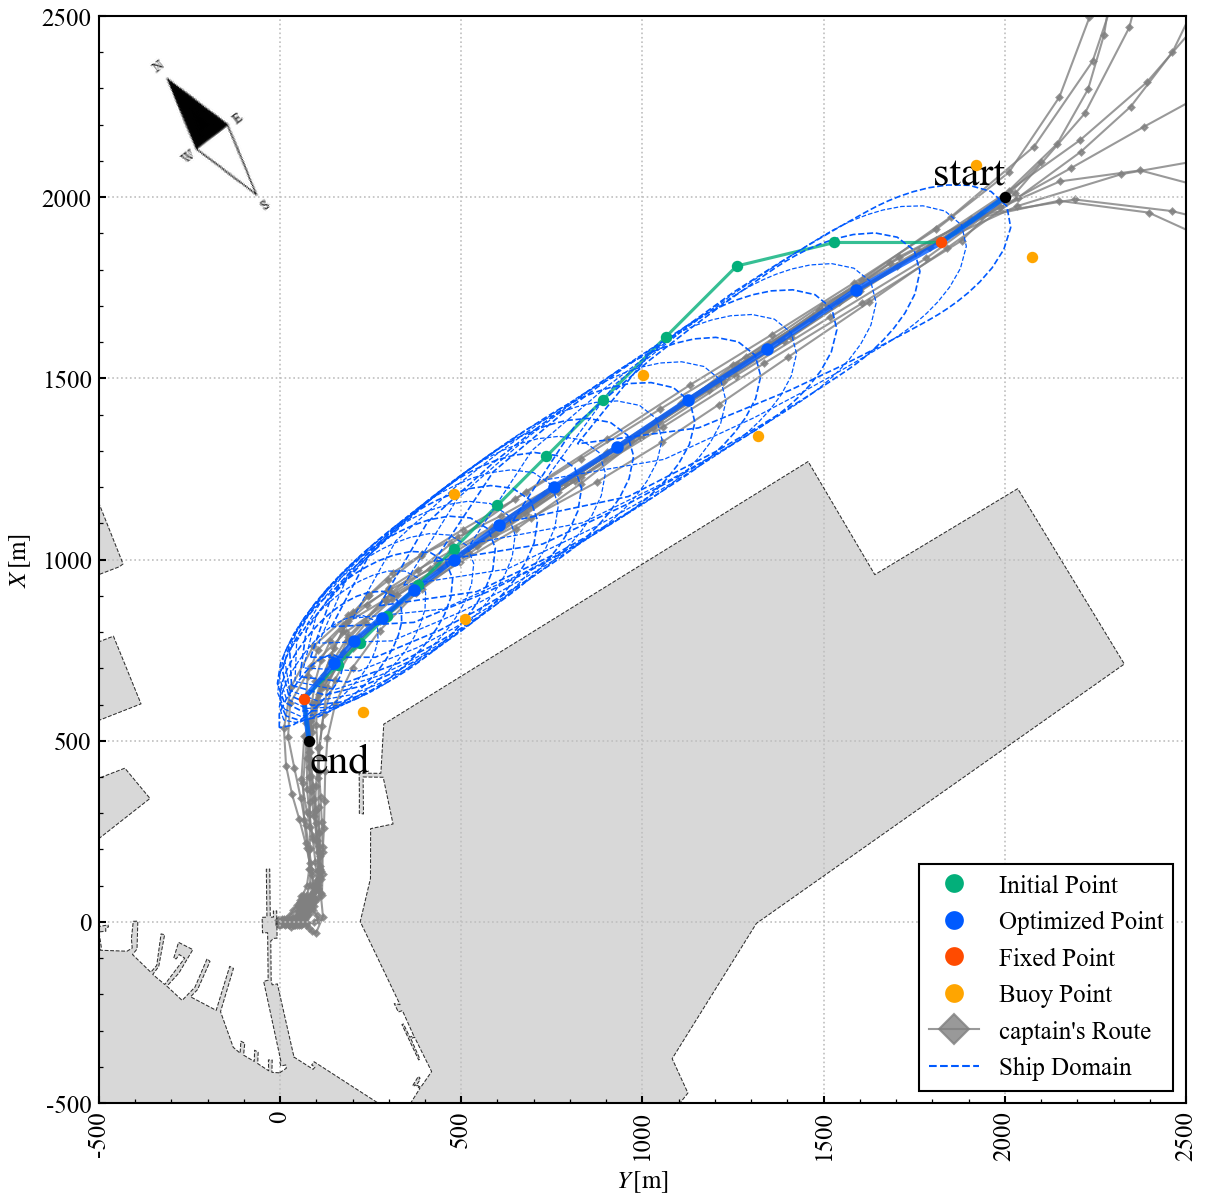
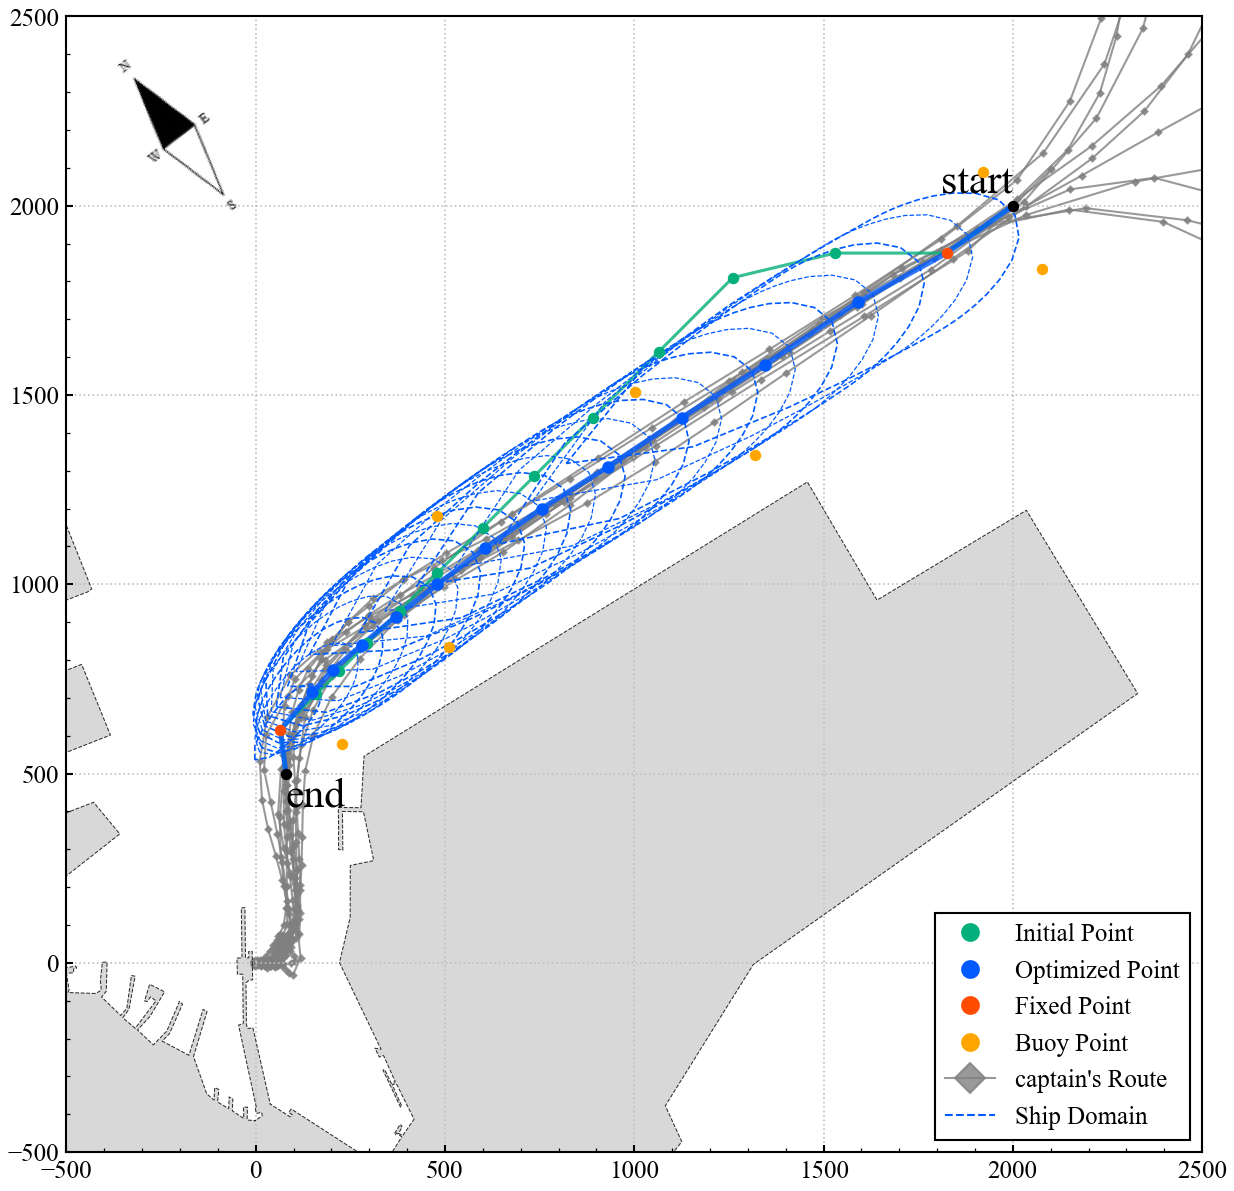
legend無くならへん

diff --git a/program/path_planning/CMA-ES.py b/program/path_planning/CMA-ES.py
@@ -1698,19 +1698,19 @@ class PathPlanning:
         ax1.set_ylim(*ver_lim)
 
         tick_int = 500
-        x_start = int(np.floor(hor_lim[0] / tick_int) * tick_int)
-        x_end = int(np.ceil(hor_lim[1] / tick_int) * tick_int)
-        y_start = int(np.floor(ver_lim[0] / tick_int) * tick_int)
-        y_end = int(np.ceil(ver_lim[1] / tick_int) * tick_int)
-        ax1.set_xticks(np.arange(x_start, x_end + tick_int, tick_int))
-        ax1.set_yticks(np.arange(y_start, y_end + tick_int, tick_int))
-        ax1.set_xticklabels(np.arange(x_start, x_end + tick_int, tick_int).astype(int), rotation=90)
-        ax1.set_yticklabels(np.arange(y_start, y_end + tick_int, tick_int).astype(int))
+        # x_start = int(np.floor(hor_lim[0] / tick_int) * tick_int)
+        # x_end = int(np.ceil(hor_lim[1] / tick_int) * tick_int)
+        # y_start = int(np.floor(ver_lim[0] / tick_int) * tick_int)
+        # y_end = int(np.ceil(ver_lim[1] / tick_int) * tick_int)
+        # # ax1.set_xticks(np.arange(x_start, x_end + tick_int, tick_int))
+        # # ax1.set_yticks(np.arange(y_start, y_end + tick_int, tick_int))
+        # # ax1.set_xticklabels(np.arange(x_start, x_end + tick_int, tick_int).astype(int), rotation=90)
+        # # ax1.set_yticklabels(np.arange(y_start, y_end + tick_int, tick_int).astype(int))
 
         ax1.set_aspect("equal")
-        ax1.grid()
-        ax1.set_xlabel(r"$Y\,\rm{[m]}$")
-        ax1.set_ylabel(r"$X\,\rm{[m]}$")
+        ax1.grid(True)
+        # ax1.set_xlabel(r"$Y\,\rm{[m]}$")
+        # ax1.set_ylabel(r"$X\,\rm{[m]}$")
         ax1.legend(handles=[legend_initial, legend_way, legend_fixed, legend_buoy, legend_captain, legend_SD])
 
         fig.savefig(f"{folder_path}/Multiplot_{port['name']}_{self.ps.init_path_algo.name}.png",

diff --git a/program/utils/PP/graph_by_taneichi.py b/program/utils/PP/graph_by_taneichi.py
@@ -400,10 +400,8 @@ class Map():
         ax.set_xticklabels(np.arange(x_start, x_end + 200, 200), rotation=90)
         ax.set_yticklabels(np.arange(y_start, y_end + 200, 200), rotation=0)
 
-        ax.set_xlabel(r'$Y\,\rm{[m]}$')
-        ax.set_ylabel(r'$X\,\rm{[m]}$')
-
-        plt.grid(which='major', color='k', linestyle='--', linewidth=0.4, alpha=0.5)
+        # plt.grid(which='major', color='k', linestyle='--', linewidth=0.4, alpha=0.5)
+        ax.grid(True)
         plt.gca().set_aspect('equal', adjustable='box')
 
         # legend
